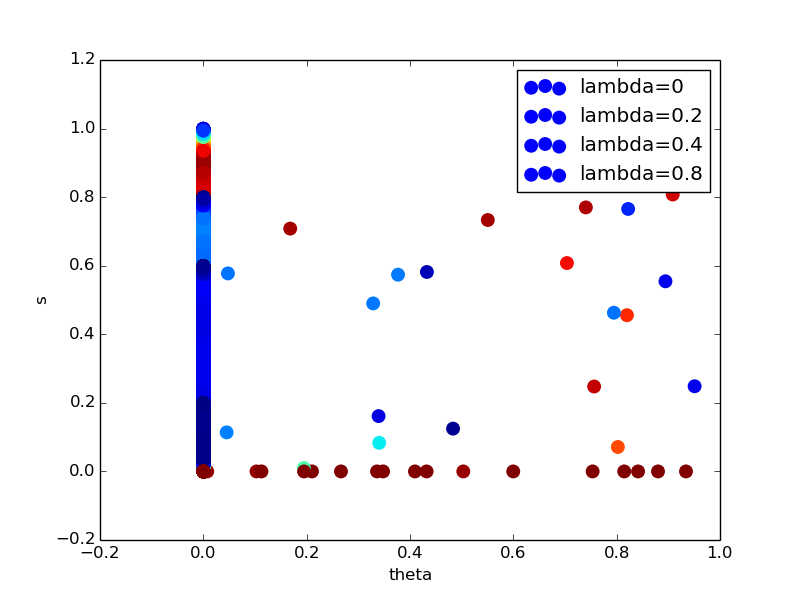
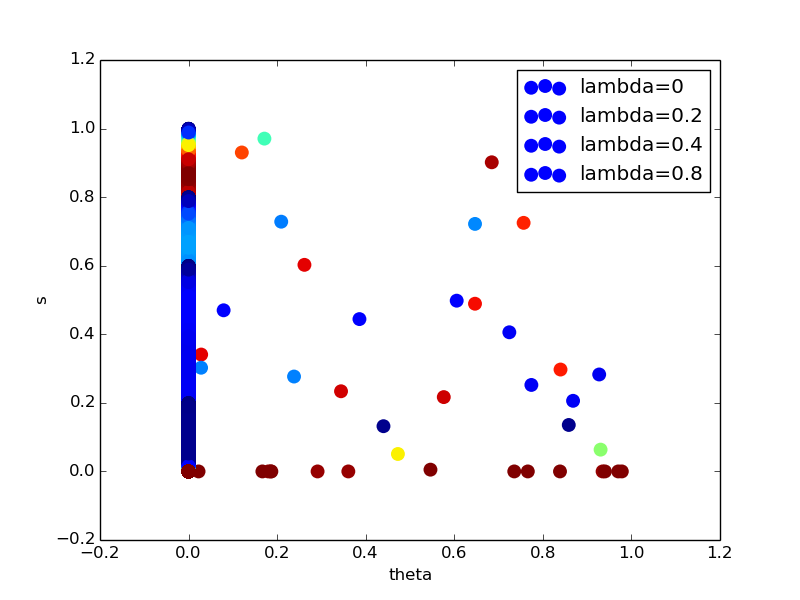
fixed axes

diff --git a/week5/penalized.py b/week5/penalized.py
@@ -61,7 +61,7 @@ for z in [0.9, 0.5, 0.25, 0.1, 0.001]:
     theta=theta.A
     norm = np.exp(-np.square(y-theta)/(2*np.square(sigma)))
     mse=[]
-    vec_lambda=np.linspace(0,1.5,100)
+    vec_lambda=np.linspace(0,1.2,100)
     for lamb in vec_lambda:
         s = calc_s(y, lamb)
         mse.append(calc_mse(s, theta))
@@ -83,10 +83,7 @@ for lam in [0, 0.2, 0.4, 0.8]:
     s = calc_s(y, lam)
 
     # Calculate the point density
-    #xy = np.vstack([th,s])
-    print 'here'
     z = scipy.stats.gaussian_kde(s)(s)
-    print 'here again'
     plt.scatter(th, s, label='lambda='+str(lam), c=z, s=100, edgecolor='')
 
 plt.xlabel('theta')
